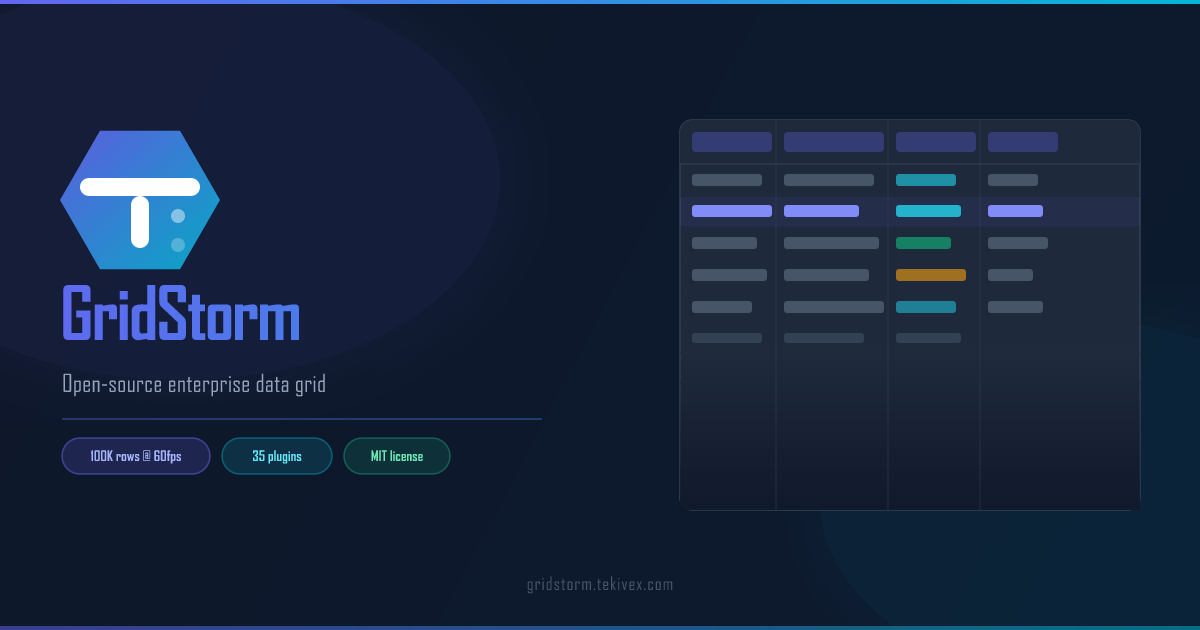
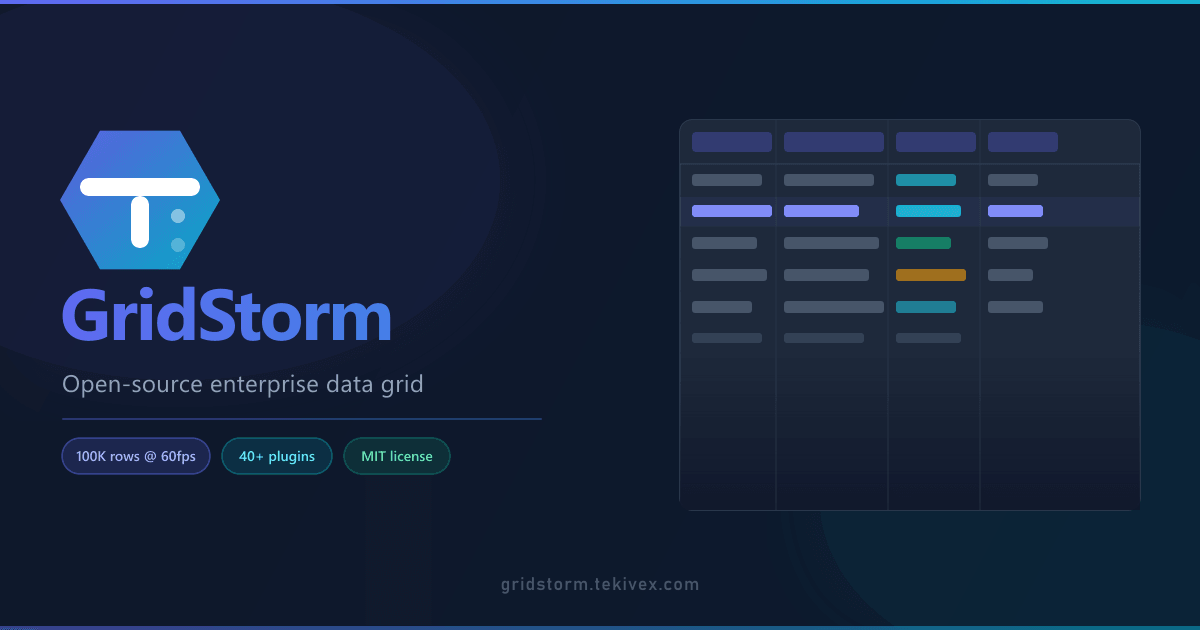
fix(seo): align plugin count to 40+ and canonical domain to tekivex.com
Plugin count drifted across surfaces (28 / 33 / 35 / 28+ / 40+) which
matters for both classic SEO (inconsistent signals) and AI visibility
(LLMs cite whichever count appears in their training context, which is
often the most-linked surface — so consistency wins). Per SEO_PLAN.md
decision 4, normalized everywhere to "40+ plugins":

  examples/hub/public/llms.txt              — header and intro
  examples/hub/public/site.webmanifest      — PWA description
  examples/hub/public/og-gridstorm.svg      — rendered text in the OG image
  examples/hub/public/og-gridstorm.png      — regenerated from SVG via sharp
  examples/hub/src/sections/Hero.tsx        — hero subline + preview chip
  examples/hub/src/sections/Features.tsx    — features intro
  examples/hub/src/sections/Products.tsx    — products grid and intro
  examples/hub/src/sections/Comparison.tsx  — vs AG Grid table + intro
  examples/hub/src/platform/manifest-gridstorm.ts  — tagline, stats, SEO description
  packages/gridstorm/README.md              — heading
  packages/gridstorm/src/plugins.ts         — JSDoc

Package count also fixed in manifest-gridstorm.ts stats (57 -> 65), matching
the actual workspace package count established in MEMORY.md.

Domain alignment per SEO_PLAN.md decision 1: package.json homepage and
author.url updated from gridstorm.dev to gridstorm.tekivex.com, ending the
previous mismatch where npm displayed one URL and every deployed canonical
[…]

diff --git a/examples/hub/src/sections/Comparison.tsx b/examples/hub/src/sections/Comparison.tsx
@@ -14,7 +14,7 @@ const rows: CompRow[] = [
   { feature: 'Excel formula engine',     gridstorm: '42 functions',aggrid: '$999/dev/yr',     handsontable: '400+ (paid)' },
   { feature: 'Excel copy/paste',         gridstorm: true,          aggrid: '$999/dev/yr',     handsontable: '$349/dev/yr' },
   { feature: 'Headless architecture',    gridstorm: true,          aggrid: false,             handsontable: false },
-  { feature: 'Plugin system',            gridstorm: '35 plugins',  aggrid: 'Built-in only',   handsontable: 'Built-in only' },
+  { feature: 'Plugin system',            gridstorm: '40+ plugins',  aggrid: 'Built-in only',   handsontable: 'Built-in only' },
   { feature: 'State time-travel',        gridstorm: true,          aggrid: false,             handsontable: false },
   { feature: 'PDF toolkit built-in',     gridstorm: true,          aggrid: false,             handsontable: false },
   { feature: 'AI / MCP integration',     gridstorm: true,          aggrid: false,             handsontable: false },
@@ -36,7 +36,7 @@ export function Comparison() {
         How we compare to <span className="section-accent">the alternatives</span>
       </h2>
       <p className="section-sub">
-        GridStorm ships with a sub-50 KB headless core, 35 composable plugins, WCAG 2.1 AA
+        GridStorm ships with a sub-50 KB headless core, 40+ composable plugins, WCAG 2.1 AA
         accessibility, 42 Excel functions, and true Excel copy/paste — all free. No $999/dev/yr.
       </p>
 

diff --git a/examples/hub/src/platform/manifest-gridstorm.ts b/examples/hub/src/platform/manifest-gridstorm.ts
@@ -3,7 +3,7 @@ import type { ProductManifest } from '../platform/types';
 export const gridstormManifest: ProductManifest = {
   id: 'gridstorm',
   name: 'GridStorm',
-  tagline: 'Enterprise Data Grid — 35 composable plugins',
+  tagline: 'Enterprise Data Grid — 40+ composable plugins',
   description:
     'Headless data grid engine with virtual scrolling, WCAG 2.1 AA accessibility, ' +
     '42 Excel-compatible formula functions, Excel copy/paste, and a full plugin ' +
@@ -18,8 +18,8 @@ export const gridstormManifest: ProductManifest = {
   docsRoot: '/docs/',
   primaryDemoPath: '/feature-showcase/',
   stats: [
-    { value: '57',     label: 'Packages' },
-    { value: '35',     label: 'Plugins' },
+    { value: '65',     label: 'Packages' },
+    { value: '40+',    label: 'Plugins' },
     { value: '100K+',  label: 'Rows @ 60fps' },
     { value: '<50KB',  label: 'Core bundle' },
   ],
@@ -43,7 +43,7 @@ export const gridstormManifest: ProductManifest = {
     title: 'GridStorm — Enterprise React Data Grid | NexaForge',
     description:
       'Open-source enterprise data grid with virtual scrolling (100K rows @ 60fps), ' +
-      'WCAG 2.1 AA, 42 Excel formula functions, and 35 composable plugins. Free forever.',
+      'WCAG 2.1 AA, 42 Excel formula functions, and 40+ composable plugins. Free forever.',
     keywords: [
       'enterprise data grid',
       'react data grid',

diff --git a/examples/hub/src/sections/Hero.tsx b/examples/hub/src/sections/Hero.tsx
@@ -35,7 +35,7 @@ export function Hero() {
         <span className="gradient">Enterprise Data Grid</span>
       </h1>
       <p className="hero-sub">
-        35 composable plugins. WCAG 2.1 AA. Excel-compatible formulas and copy/paste.
+        40+ composable plugins. WCAG 2.1 AA. Excel-compatible formulas and copy/paste.
         <br />
         Everything AG Grid Enterprise charges $999/dev/yr for — free and open-source.
       </p>
@@ -155,7 +155,7 @@ export function Hero() {
         <div className="preview-footer">
           <span className="preview-badge green">● Live</span>
           <span className="preview-stat">5 rows · 100K row capacity · 60 fps</span>
-          <span className="preview-plugins">35 plugins · WCAG 2.1 AA · Excel copy/paste</span>
+          <span className="preview-plugins">40+ plugins · WCAG 2.1 AA · Excel copy/paste</span>
         </div>
       </div>
     </section>

diff --git a/examples/hub/src/sections/Features.tsx b/examples/hub/src/sections/Features.tsx
@@ -104,7 +104,7 @@ export function Features() {
         <span className="section-accent">$999/dev/yr for</span>
       </h2>
       <p className="section-sub">
-        35 composable plugins covering virtual scroll, WCAG 2.1 AA, Excel formulas,
+        40+ composable plugins covering virtual scroll, WCAG 2.1 AA, Excel formulas,
         Excel copy/paste, row grouping, time travel, and more — all open-source.
       </p>
       <div className="features-grid">
@@ -113,7 +113,7 @@ export function Features() {
             <div className="feature-icon">
               <Icon name={feat.icon} size={20} />
             </div>
-            <h4>{feat.title}</h4>
+            <h3>{feat.title}</h3>
             <p>{feat.description}</p>
             {(feat.docsSlug || feat.demoLink) && (
               <div className="feature-links">

diff --git a/examples/hub/src/sections/Products.tsx b/examples/hub/src/sections/Products.tsx
@@ -1,7 +1,7 @@
 import { Icon } from '../icons/Icon';
 
 const gridFeatures = [
-  '35 composable plugins',
+  '40+ composable plugins',
   'Virtual scroll (100K rows @ 60fps)',
   'WCAG 2.1 AA accessibility',
   'Excel-compatible formula engine (42 fns)',
@@ -40,7 +40,7 @@ export function Products() {
       </h2>
       <p className="section-sub">
         A unified platform — one license covers the data grid, the PDF toolkit,
-        and 35 plugins. Shared event and plugin architecture throughout.
+        and 40+ plugins. Shared event and plugin architecture throughout.
       </p>
 
       {/* Plugin tier breakdown */}

diff --git a/examples/hub/src/styles.css b/examples/hub/src/styles.css
@@ -563,7 +563,7 @@ body {
   margin-bottom: 12px;
 }
 
-.ai-card h4 {
+.ai-card h3 {
   font-size: 15px;
   font-weight: 700;
   margin-bottom: 6px;
@@ -769,7 +769,7 @@ body {
   gap: 6px;
 }
 
-.feature-cell h4 {
+.feature-cell h3 {
   font-size: 14px;
   font-weight: 600;
   color: var(--hub-text);
@@ -828,7 +828,7 @@ body {
   box-shadow: var(--hub-card-shadow);
 }
 
-.platform-card h4 {
+.platform-card h3 {
   font-size: 15px;
   font-weight: 700;
   color: var(--hub-text);

diff --git a/examples/hub/src/layout/Footer.tsx b/examples/hub/src/layout/Footer.tsx
@@ -99,7 +99,7 @@ export function Footer() {
       <div className="hub-footer-cols">
         {FOOTER_COLS.map((col) => (
           <div key={col.heading} className="hub-footer-col">
-            <h4 className="hub-footer-col-heading">{col.heading}</h4>
+            <h3 className="hub-footer-col-heading">{col.heading}</h3>
             <ul className="hub-footer-col-list">
               {col.links.map((link) => (
                 <li key={link.label}>

diff --git a/packages/gridstorm/src/plugins.ts b/packages/gridstorm/src/plugins.ts
@@ -1,7 +1,7 @@
 // © 2025 GridStorm / Tekivex — All Rights Reserved
 // Unauthorized reproduction or distribution is prohibited.
 /**
- * GridStorm Plugins — All 35 plugins in one import
+ * GridStorm Plugins — All 40+ plugins in one import
  *
  * ```ts
  * import { SortingPlugin, FilteringPlugin, AIPlugin } from 'gridstorm/plugins';

diff --git a/examples/hub/src/sections/AiSection.tsx b/examples/hub/src/sections/AiSection.tsx
@@ -41,7 +41,7 @@ export function AiSection() {
         {aiCards.map((card) => (
           <div key={card.title} className="ai-card">
             <div className="ai-badge">{card.badge}</div>
-            <h4>{card.title}</h4>
+            <h3>{card.title}</h3>
             <p>{card.description}</p>
           </div>
         ))}

diff --git a/examples/hub/src/App.tsx b/examples/hub/src/App.tsx
@@ -62,7 +62,7 @@ export function App() {
           <div className="bg-glow" />
           <div className="hub-container">
             <TopNav route={route} />
-            {page}
+            <main id="main-content">{page}</main>
             <Footer />
           </div>
         </PlatformProvider>

diff --git a/examples/hub/src/sections/Ecosystem.tsx b/examples/hub/src/sections/Ecosystem.tsx
@@ -33,7 +33,7 @@ export function Ecosystem() {
             <div className="platform-icon">
               <Icon name={card.icon} size={22} />
             </div>
-            <h4>{card.title}</h4>
+            <h3>{card.title}</h3>
             <p>{card.description}</p>
           </div>
         ))}

diff --git a/packages/gridstorm/README.md b/packages/gridstorm/README.md
@@ -56,7 +56,7 @@ function App() {
 - **Theming** — CSS custom properties, light/dark/high-contrast, density modes
 - **i18n** — Internationalization support
 
-### 28 Plugins
+### 40+ Plugins
 
 | Category | Plugins |
 |----------|---------|
